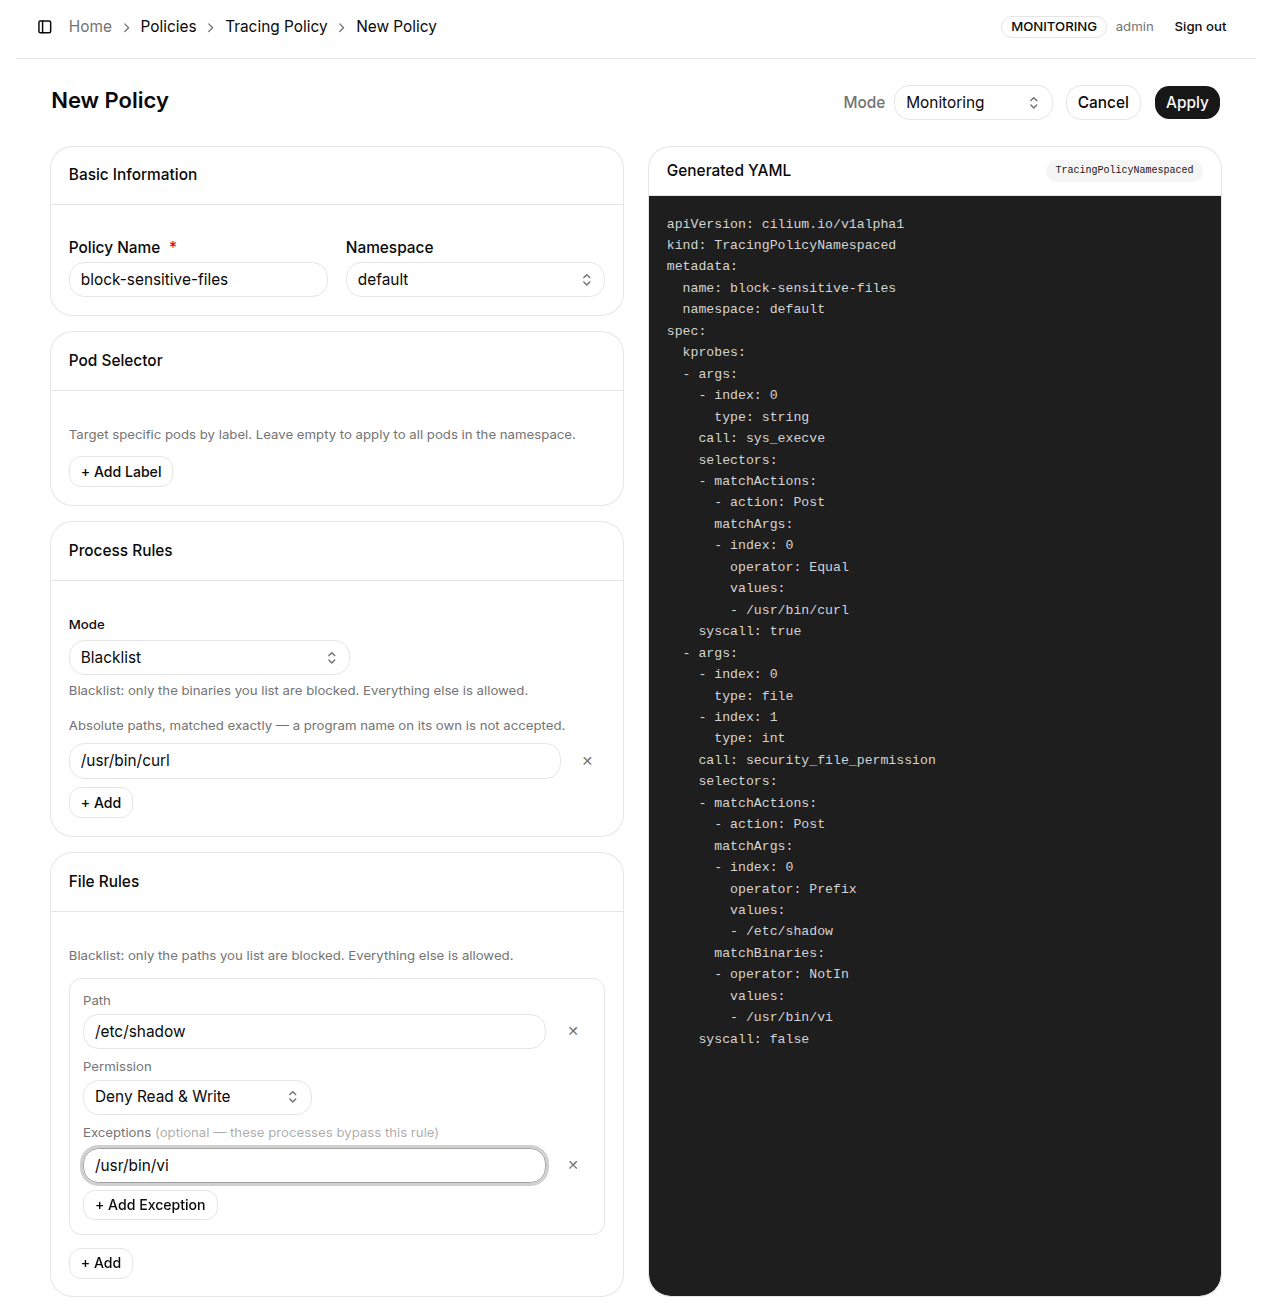
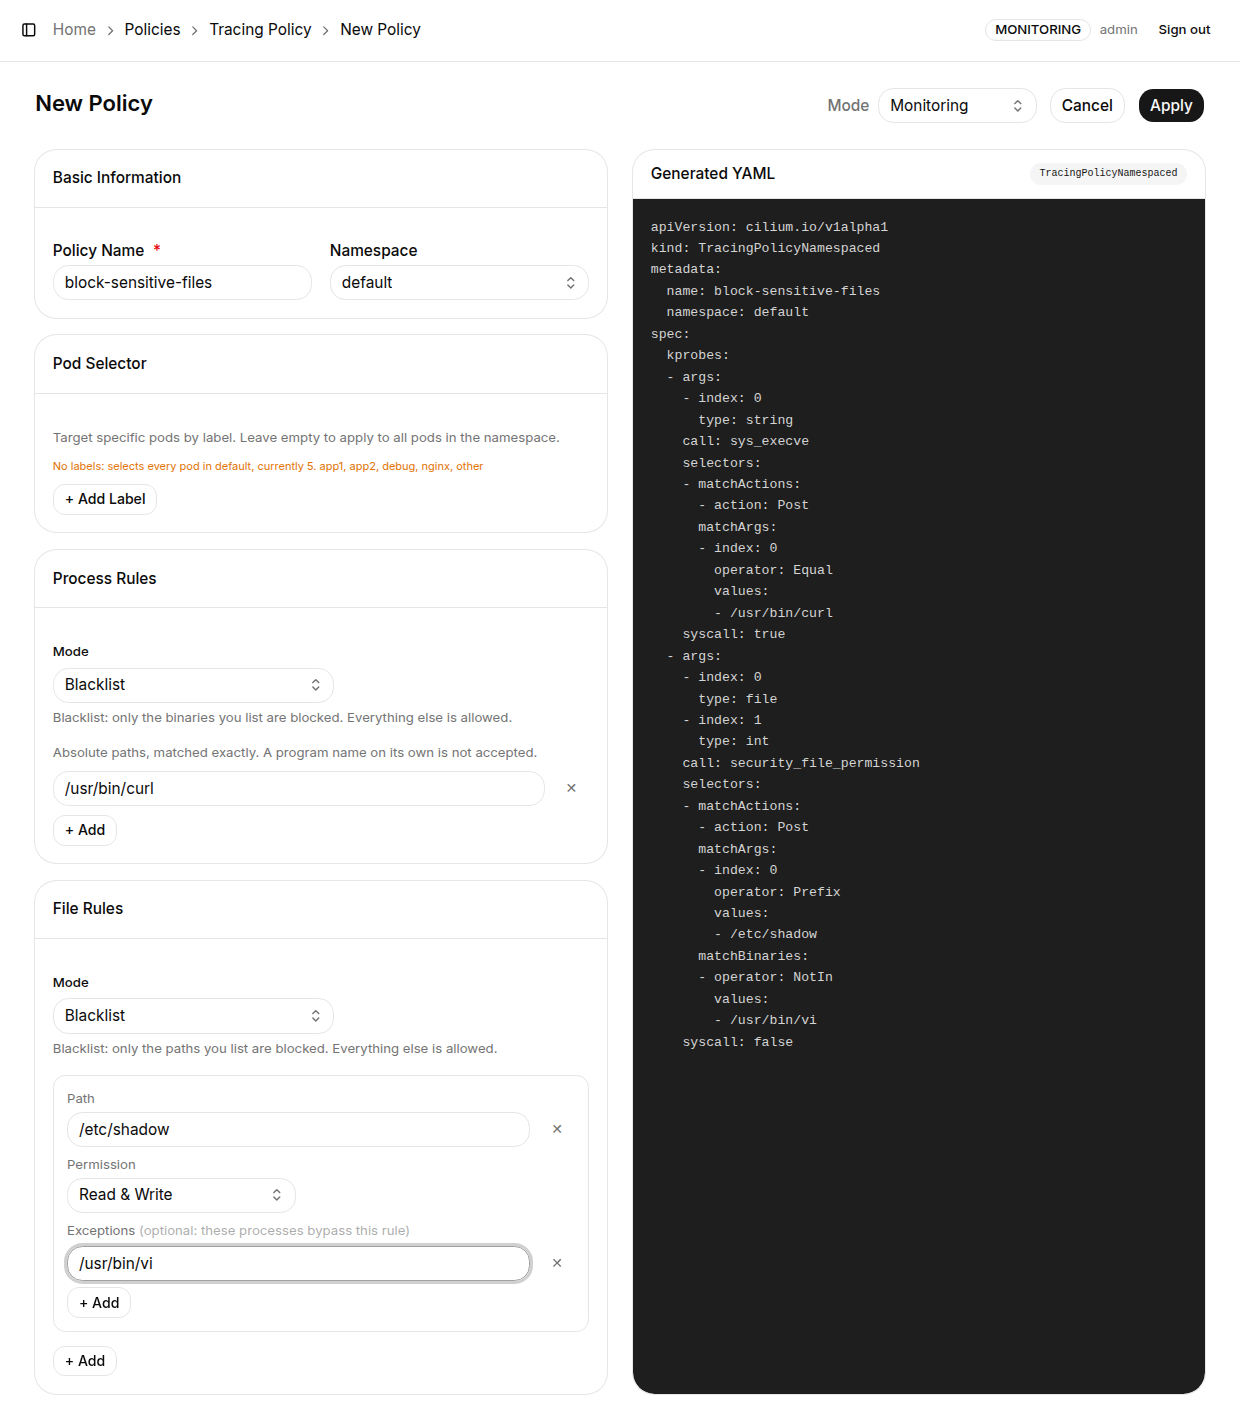
docs: sync with K8s Sentinel v0.51-v0.53 (zh-TW + EN)
- Form editor / File Rules rewritten for v0.52.x: whitelist/blacklist
  mode switch (default blacklist), renamed permissions (Read & Write /
  Read only / Write only, "Monitored access" under whitelist), the
  whitelist single exclusion group (excluded paths + monitored access +
  exception processes) and why it must be one selector (OR semantics),
  absolute-path requirement, and the YAML round-trip guarantee for
  shapes the form cannot represent; create-form screenshot retaken on
  v0.52.4 (also shows the live Pod Selector preview)
- Alerts: document the v0.51 delivery pipeline - bounded queue, single
  sender pacing ~1 msg/s per webhook, Retry-After backoff on 429, 5xx
  retried, queue-full drop with log, synchronous Test button, and the
  per-app Slack rate limit note
- Persistent storage: new JWT_SECRET section (v0.53) - pin the session
  signing key via a Secret so restarts stop logging everyone out,
  32-char minimum enforced at startup; cross-linked from login and
  architecture pages

diff --git a/docs/features/form-editor.md b/docs/features/form-editor.md
@@ -79,17 +79,36 @@ Process Rules 用於控制 Pod 內可以執行的程式（process/binary）。
 
 ## File Rules（檔案規則）
 
-File Rules 用於控制 Pod 對檔案系統的存取行為，採固定的 **Blacklist（黑名單）** 模式：只有列表中指定的路徑會被管制，其餘路徑皆可正常存取。
+File Rules 用於控制 Pod 對檔案系統的存取行為。自 v0.52 起與 Process Rules 一樣提供 **Mode** 切換：
 
-每條 File Rule 包含以下設定：
+| Mode | 說明 |
+|---|---|
+| **Blacklist**（預設） | 僅監控/阻擋列表中指定的路徑，其餘路徑不受影響 |
+| **Whitelist** | 僅排除列表中指定的路徑，**其餘所有檔案存取都被監控/阻擋** |
+
+兩種模式的表單長相不同：
+
+**Blacklist：每條路徑一則規則**，各自設定：
 
 | 欄位 | 說明 |
 |---|---|
-| **Path** | 要管制的檔案或目錄路徑（例如 `/etc/shadow`、`/root/.ssh`），採**前綴（Prefix）比對**，填目錄即涵蓋其下所有檔案 |
-| **Permission** | 管制的存取類型：`Deny Read & Write`（讀寫皆管制）、`Only Deny Read`（僅管制讀取）、`Only Deny Write`（僅管制寫入） |
-| **Exceptions** | 選填；列出可**繞過此規則**的行程執行檔路徑（例如允許備份程式讀取管制目錄）。可新增多筆 |
+| **Path** | 要管制的檔案或目錄路徑（例如 `/etc/shadow`、`/root/.ssh`），採**前綴（Prefix）比對**，填目錄即涵蓋其下所有檔案；**必須是絕對路徑** |
+| **Permission** | 管制的存取類型：`Read & Write` / `Read only` / `Write only` |
+| **Exceptions** | 選填；可**繞過此規則**的行程執行檔絕對路徑（例如允許備份程式讀取管制目錄），可多筆 |
 
-**執行原理：** Tetragon 掛載 `security_file_permission` kprobe（LSM hook）監控檔案存取，以 Prefix 運算子比對路徑；Exceptions 透過 `matchBinaries: NotIn` 實現，讓指定的行程不受此規則影響。
+**Whitelist：單一排除群組**（點「+ Add」展開），整組共用設定：
+
+| 欄位 | 說明 |
+|---|---|
+| **Excluded paths** | 不需監控的路徑清單，**其餘所有路徑都會被監控** |
+| **Monitored access** | 選擇監控哪種存取：`Read & Write` / `Read only` / `Write only`（選 Read only 代表寫入完全不監控，不是「只允許讀」） |
+| **Exception processes** | 選填；這些行程的檔案存取完全不受監控 |
+
+**執行原理：** Tetragon 掛載 `security_file_permission` kprobe（LSM hook）監控檔案存取。Blacklist 為每條路徑一個 `Prefix` selector（Tetragon 的 selector 之間為 OR）；Whitelist 則產生**單一** selector，以一個 `NotPrefix` 涵蓋所有排除路徑、一個 `matchBinaries: NotIn` 涵蓋所有例外行程（v0.52.1 起，多 selector 的 OR 語意會讓排除失效，故必須合併為一組）。
+
+:::note[表單無法呈現的 YAML 不會被改寫]
+手寫 YAML 若使用表單無法表達的形態（混用 `Prefix` / `NotPrefix`、`Mask` 運算子、多值 permission 等），編輯時會維持以 YAML 編輯器開啟，不會被表單儲存時改寫（v0.52.4）。
+:::
 
 ---
 

diff --git a/i18n/en/docusaurus-plugin-content-docs/current/features/form-editor.md b/i18n/en/docusaurus-plugin-content-docs/current/features/form-editor.md
@@ -79,17 +79,36 @@ Paths are **absolute and matched exactly** - a program name on its own (e.g. `cu
 
 ## File Rules
 
-File Rules control filesystem access from the Pods and always operate in **Blacklist** mode: only the paths you list are restricted; everything else is allowed.
+File Rules control filesystem access from the Pods. Since v0.52 they have the same **Mode** switch as Process Rules:
 
-Each file rule has the following settings:
+| Mode | Description |
+|---|---|
+| **Blacklist** (default) | Only the paths you list are monitored/blocked; everything else is untouched |
+| **Whitelist** | Only the paths you list are excluded; **every other file access is monitored/blocked** |
+
+The two modes present different forms:
+
+**Blacklist: one rule per path**, each with:
 
 | Field | Description |
 |---|---|
-| **Path** | The file or directory path to restrict (e.g. `/etc/shadow`, `/root/.ssh`); matched by **prefix**, so a directory covers everything under it |
-| **Permission** | Which access to restrict: `Deny Read & Write`, `Only Deny Read`, or `Only Deny Write` |
-| **Exceptions** | Optional; executable paths of processes that **bypass this rule** (e.g. allow a backup agent to read a restricted directory). Multiple entries allowed |
+| **Path** | The file or directory to restrict (e.g. `/etc/shadow`, `/root/.ssh`); matched by **prefix**, so a directory covers everything under it; **must be absolute** |
+| **Permission** | Which access to restrict: `Read & Write` / `Read only` / `Write only` |
+| **Exceptions** | Optional; absolute executable paths of processes that **bypass this rule** (e.g. a backup agent reading a restricted directory) |
 
-**How it works:** Tetragon hooks the `security_file_permission` kprobe (an LSM hook) to monitor file access, matching paths with the Prefix operator. Exceptions are implemented with `matchBinaries: NotIn`, exempting the listed processes from the rule.
+**Whitelist: a single exclusion group** (opened with "+ Add"), shared by the whole set:
+
+| Field | Description |
+|---|---|
+| **Excluded paths** | Paths that are not monitored; **everything else is** |
+| **Monitored access** | Which access kind is monitored at all: `Read & Write` / `Read only` / `Write only` (Read only means writes are not monitored anywhere, not "reads allowed") |
+| **Exception processes** | Optional; these processes' file access is not monitored at all |
+
+**How it works:** Tetragon hooks the `security_file_permission` kprobe (an LSM hook). Blacklist emits one `Prefix` selector per path (Tetragon ORs selectors); Whitelist emits a **single** selector with one `NotPrefix` over all excluded paths and one `matchBinaries: NotIn` over all exception processes (since v0.52.1: multiple OR-ed selectors would make the exclusions silently ineffective, so they must be merged into one set).
+
+:::note[Hand-written YAML the form cannot represent is never rewritten]
+YAML using shapes the form cannot express (mixed `Prefix` / `NotPrefix`, the `Mask` operator, multi-value permissions, etc.) keeps opening in the YAML editor on edit, so a form save cannot rewrite it (v0.52.4).
+:::
 
 ---
 

diff --git a/i18n/en/docusaurus-plugin-content-docs/current/login.md b/i18n/en/docusaurus-plugin-content-docs/current/login.md
@@ -49,7 +49,7 @@ Without [Persistent Storage (PV / PVC)](./installation/persistent-storage.md) co
 |---|---|
 | **Login rate limit** (v0.47+) | Failed logins are throttled per source IP (5 per minute, then a brief block). Keyed on the source rather than the username, so an attacker cannot lock a real user out by deliberately failing their login |
 | **Login auditing** (v0.48+) | Every sign-in attempt (success, wrong credentials, rate-limited) is recorded in the [Audit Log](./features/audit-log.md) with the targeted account and the source IP; the password is never recorded |
-| **JWT authentication** | On success a token is stored in the browser's `localStorage` and sent as the `Authorization` header on every API request. When it expires (Session Timeout defaults to 3600 seconds) you are logged out automatically |
+| **JWT authentication** | On success a token is stored in the browser's `localStorage` and sent as the `Authorization` header on every API request. When it expires (Session Timeout defaults to 3600 seconds) you are logged out automatically. Since v0.53 the [`JWT_SECRET` environment variable](./installation/persistent-storage.md#only-want-sessions-to-survive-restarts-jwt_secret) can pin the signing key so a Pod restart no longer logs everyone out |
 
 :::note[Behind a proxy or Ingress?]
 The source IP for rate limiting and audit records is taken from the connection itself (`RemoteAddr`) by default. If K8s Sentinel runs behind a proxy or Ingress that sets `X-Forwarded-For`, set the environment variable **`TRUST_PROXY_HEADERS=true`** on the Sentinel container so the real client IP is used (v0.50+).

diff --git a/docs/login.md b/docs/login.md
@@ -49,7 +49,7 @@ sidebar_position: 5
 |---|---|
 | **登入速率限制**（v0.47+） | 同一來源 IP 的失敗登入每分鐘最多 5 次，超過即短暫封鎖。以來源 IP 而非帳號計數，攻擊者無法藉由故意輸錯密碼將真實使用者鎖在門外 |
 | **登入稽核**（v0.48+） | 每一次登入嘗試（成功、密碼錯誤、被限流）都會記錄在 [Audit Log](./features/audit-log.md)，包含目標帳號與來源 IP；密碼本身不會被記錄 |
-| **JWT 認證** | 登入成功後 token 存於瀏覽器 `localStorage`，後續每次 API 請求自動帶入 `Authorization` header。Token 逾期（預設 Session Timeout 為 3600 秒）將自動登出 |
+| **JWT 認證** | 登入成功後 token 存於瀏覽器 `localStorage`，後續每次 API 請求自動帶入 `Authorization` header。Token 逾期（預設 Session Timeout 為 3600 秒）將自動登出。v0.53 起可用 [`JWT_SECRET` 環境變數](./installation/persistent-storage.md#只想讓-session-不因重啟登出jwt_secret)固定簽署金鑰，Pod 重啟不再造成全員登出 |
 
 :::note[部署在 Proxy / Ingress 後方？]
 速率限制與稽核記錄的來源 IP 預設取自連線本身（`RemoteAddr`）。若 K8s Sentinel 部署在會設定 `X-Forwarded-For` 的 Proxy 或 Ingress 後方，請在 Sentinel 容器設定環境變數 **`TRUST_PROXY_HEADERS=true`**，來源 IP 才會正確反映真實用戶端（v0.50+）。

diff --git a/i18n/en/docusaurus-plugin-content-docs/current/installation/persistent-storage.md b/i18n/en/docusaurus-plugin-content-docs/current/installation/persistent-storage.md
@@ -229,3 +229,27 @@ Log in again after the restart - if your change survived, persistence is working
 :::warning
 Data previously stored in the `emptyDir` is **not** migrated when you switch to the PVC - K8s Sentinel starts fresh (credentials back to `admin`/`admin`). Set up persistent storage **before** doing your initial configuration (passwords, users, alert rules).
 :::
+
+---
+
+## Only Want Sessions to Survive Restarts? (JWT_SECRET)
+
+The session-signing key lives in `/data/sentinel/.jwt-secret` by default. Without a PV it is regenerated on every Pod restart, **logging every user out**. Since v0.53 the **`JWT_SECRET`** environment variable (at least 32 characters) can pin the key, injected from a Kubernetes Secret:
+
+```bash
+kubectl -n sentinel-system create secret generic sentinel-jwt \
+  --from-literal=jwt-secret="$(openssl rand -hex 32)"
+```
+
+```yaml
+        env:
+        - name: JWT_SECRET
+          valueFrom:
+            secretKeyRef:
+              name: sentinel-jwt
+              key: jwt-secret
+```
+
+- A too-short value **refuses to start** rather than silently weakening every session token
+- Unset keeps the existing `.jwt-secret` file behaviour; deployments with a PV need nothing
+- Note: `JWT_SECRET` only covers session survival; **accounts, rules and event data still need a PV**

diff --git a/i18n/en/docusaurus-plugin-content-docs/current/features/alerts.md b/i18n/en/docusaurus-plugin-content-docs/current/features/alerts.md
@@ -50,6 +50,17 @@ When a new security event arrives and matches a rule's conditions, the backend:
 2. Verifies the rule is not within its cooldown period
 3. Constructs an alert payload and sends it via HTTP POST to the webhook URL
 
+**Throttling and retries (v0.51+):** all event-driven alerts (Security and Admission) go through a bounded queue to a **single sender**, which:
+
+- Paces each webhook to about **one message per second**, so a burst of events no longer becomes a burst of concurrent POSTs that trips the receiver's rate limit
+- On **HTTP 429**, honours `Retry-After` with bounded backoff and retries a few times; **5xx** responses (usually transient) are also retried; plain 4xx (e.g. a deleted webhook) is not
+- Drops with a log entry when the queue is full instead of growing memory without bound
+- The manual "**Test**" button bypasses the queue and posts synchronously, so the UI gets an immediate success/failure result
+
+:::note[Slack rate limits are per app]
+Two rules pointing at different webhook URLs of the same Slack app share one quota. If the app is already inside a rate-limit window from earlier bursts, let it subside first.
+:::
+
 ---
 
 ## Supported Platforms

diff --git a/docs/features/alerts.md b/docs/features/alerts.md
@@ -50,6 +50,17 @@ Alerts 頁面允許使用者設定 **Webhook 告警規則**，當 Security Event
 2. 檢查是否在 Cooldown 期間內（避免重複推送）
 3. 構建告警訊息 Payload 並以 HTTP POST 方式送出至 Webhook URL
 
+**推送節流與重試（v0.51+）：** 所有事件觸發的告警（Security 與 Admission）都會經過一個有界佇列，交由**單一送信程序**依序送出：
+
+- 每個 Webhook 約**每秒一則**，事件爆量不會變成大量並發 POST 而觸發對方的速率限制
+- 收到 **HTTP 429** 時依 `Retry-After` 退避並重試數次；**5xx** 也會重試（通常是暫時性錯誤）；4xx（例如 Webhook 已被刪除）不重試
+- 佇列滿時丟棄並記錄 log，不會無限占用記憶體
+- 手動的「**Test**」按鈕不經佇列、同步送出，UI 能立即得到成功/失敗結果
+
+:::note[Slack 的速率限制是以 App 為單位]
+兩條規則指向同一個 Slack App 的不同 Webhook URL，仍共用同一個限額。若先前已因爆量進入限流視窗，需等其自然消退。
+:::
+
 ---
 
 ## 支援的 Webhook 平台

diff --git a/i18n/en/docusaurus-plugin-content-docs/current/architecture.md b/i18n/en/docusaurus-plugin-content-docs/current/architecture.md
@@ -63,5 +63,5 @@ Persistent data is stored at the following paths:
 | Path | Purpose |
 |---|---|
 | `/data/sentinel/users.json` | User accounts and password hashes |
-| `/data/sentinel/.jwt-secret` | The JWT token signing key, auto-generated on first startup |
+| `/data/sentinel/.jwt-secret` | The JWT token signing key, auto-generated on first startup; can be overridden by the `JWT_SECRET` environment variable since v0.53 |
 | `/data/sentinel/` (rest) | Alert / syslog configs, custom policy templates, Security / Admission event history and the Audit Log |

diff --git a/docs/architecture.md b/docs/architecture.md
@@ -63,5 +63,5 @@ Go backend 在編譯時透過 `embed.go` 將前端 React SPA 的靜態檔案（H
 | 路徑 | 用途 |
 |---|---|
 | `/data/sentinel/users.json` | 使用者帳號與密碼雜湊 |
-| `/data/sentinel/.jwt-secret` | JWT Token 簽署金鑰，首次啟動時自動產生 |
+| `/data/sentinel/.jwt-secret` | JWT Token 簽署金鑰，首次啟動時自動產生；v0.53 起可被 `JWT_SECRET` 環境變數覆蓋 |
 | `/data/sentinel/`（其餘） | Alerts / Syslog 設定、自訂 Policy Templates、Security / Admission 事件歷史、Audit Log |
